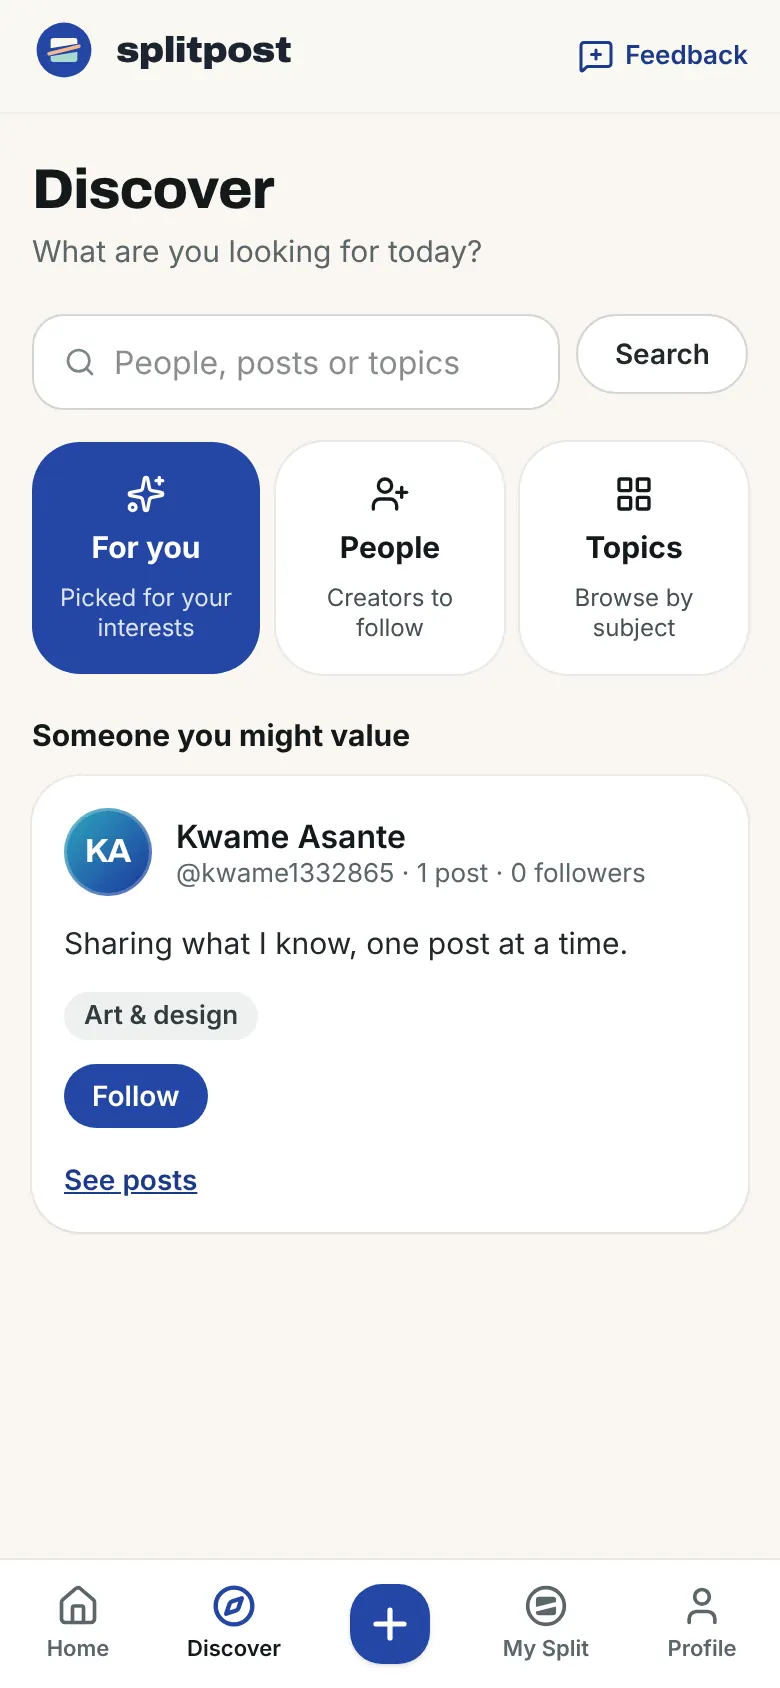
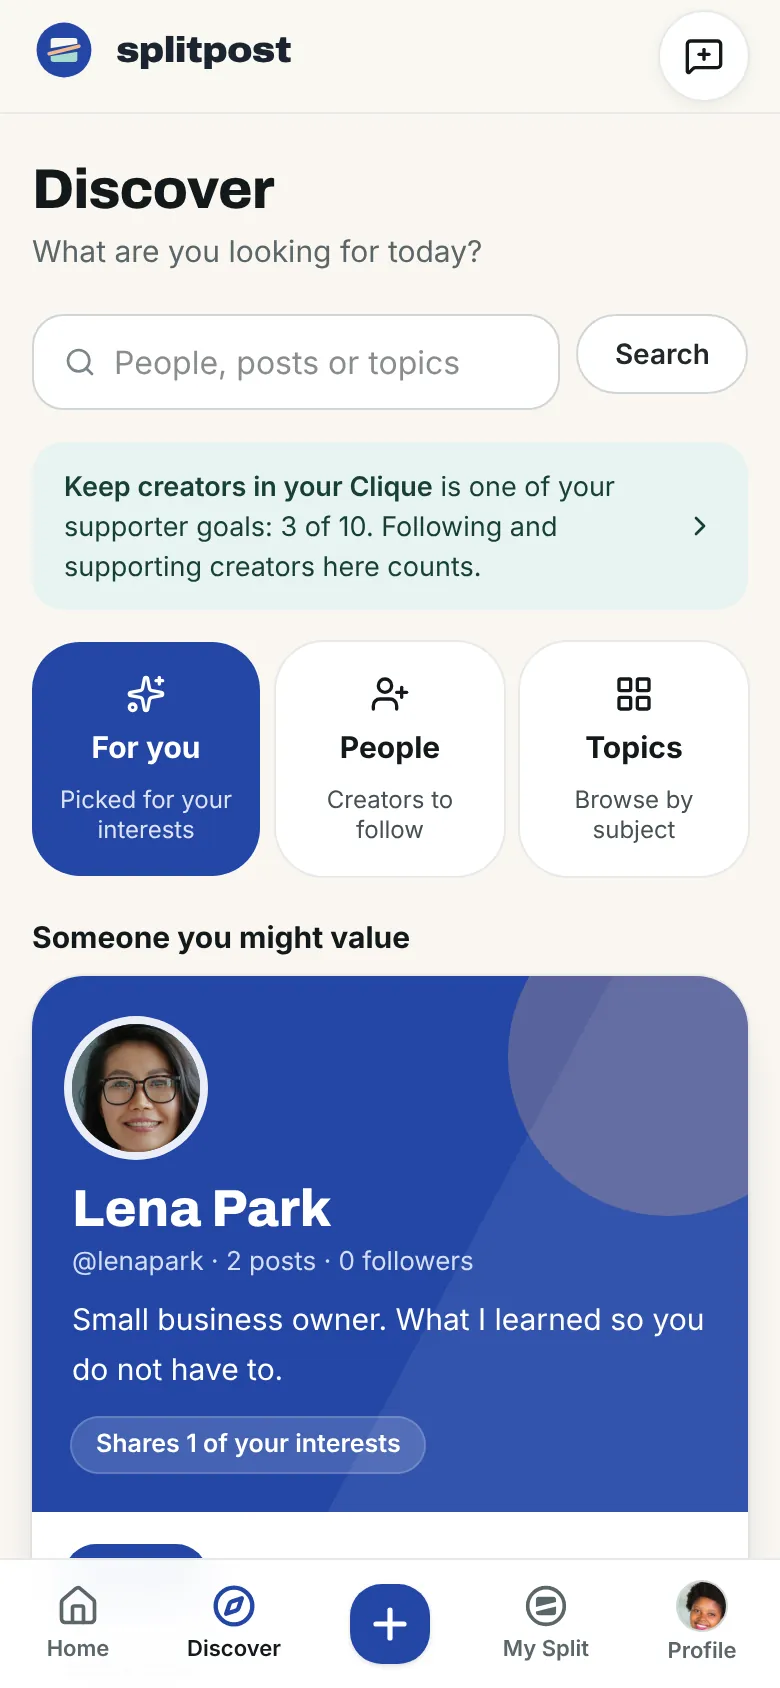
SP-BRAND-003: HOW screens from a curated demo community, asset register
The five HOW screens were captured through the actual app on a local,
isolated test database with a fictional demo community across faith,
personal development and business. Every profile picture and post photo in
them is a verified Unsplash photo, now listed in DEMO_SCREEN_PHOTOS. No pilot
data and no new product capabilities. Amounts remain labelled simulated.

Claude-Session: https://claude.ai/code/session_01CUaEFtsUmZarGV9ZXQ3NfH

diff --git a/src/public/landing/photos.ts b/src/public/landing/photos.ts
@@ -180,3 +180,28 @@ export const HERO_POST = {
 
 /** Every hero picture, for the register checks. */
 export const HERO_PICTURES = [HERO_POST.creator.avatar, HERO_POST.media, ...HERO_POST.community] as const
+
+/**
+ * Photos that appear inside the HOW screenshots (SP-BRAND-003). The screens
+ * were captured through the actual app on a local, isolated test database with
+ * a fictional demo community (never pilot data). Every profile picture and post
+ * photo in them is one of these verified Unsplash photos; the HERO_POST photos
+ * also appear (David Mitchell's post and picture). Names are fictional.
+ */
+export const DEMO_SCREEN_PHOTOS = [
+  ['Grace Adeyemi (profile)', 'https://unsplash.com/photos/a-smiling-woman-poses-in-front-of-a-wall-xSEFkIAopxA', 'Brooke Balentine'],
+  ['Samuel Okafor (profile)', 'https://unsplash.com/photos/man-in-maroon-suit-with-black-lapels-smiling-g9Et-rzQBkA', 'Jadon Johnson'],
+  ['Helen Brooks (profile)', 'https://unsplash.com/photos/woman-in-white-long-sleeve-shirt-smiling-RBtFAZXlJDA', 'Maria Lupan'],
+  ['Marcus Bell (profile)', 'https://unsplash.com/photos/a-man-wearing-a-blue-suit-and-white-shirt-xbB9xhLOc0I', 'Samson Balogun'],
+  ['Lena Park (profile)', 'https://unsplash.com/photos/a-woman-with-glasses-smiles-against-a-gray-background-s3aDHKxHZSc', 'Vitaly Gariev'],
+  ['Nina Patel (profile)', 'https://unsplash.com/photos/woman-in-gray-and-yellow-pussybow-top-_5_CBVCLBsY', 'Christina @ wocintechchat.com M'],
+  ['Jordan Lee (profile)', 'https://unsplash.com/photos/a-smiling-young-man-in-a-dark-blue-sweater-rifCUO-4X8k', 'Josias Garibay'],
+  ['Priya Shah (profile)', 'https://unsplash.com/photos/smiling-woman-in-white-and-black-checkered-dress-shirt-MQ2xYBHImKM', 'Compagnons'],
+  ['Tom Walker (profile)', 'https://unsplash.com/photos/man-wearing-white-v-neck-shirt-iFgRcqHznqg', 'Joseph Gonzalez'],
+  ['Ben Carter (profile)', 'https://unsplash.com/photos/man-wearing-grey-jacket-v7Jja2ChN6s', 'Ryan Hoffman'],
+  ['Grace: Bible and mug', 'https://unsplash.com/photos/green-ceramic-mug-beside-book-4eWwSxaDhe4', 'Aaron Burden'],
+  ['Samuel: candle and journal', 'https://unsplash.com/photos/white-candle-on-white-ruled-paper-beside-white-ceramic-mug-6Ahp8-YMoww', 'Sixteen Miles Out'],
+  ['Helen: open notebook', 'https://unsplash.com/photos/open-notebook-with-pen-and-pencils-on-desk-n9AaeihA9HI', 'Clay Banks'],
+  ['Marcus: laptop and notebook', 'https://unsplash.com/photos/laptop-phone-and-notebook-on-a-wooden-desk-Qw_WS6EFY00', 'Jakub Żerdzicki'],
+  ['Lena: shop stock check', 'https://unsplash.com/photos/woman-reviews-inventory-in-a-clothing-store-Pvaaeer8kws', 'Vitaly Gariev'],
+].map(([use, sourceUrl, photographer]) => ({ use, sourceUrl, photographer, verified: true, verification: UNSPLASH_CHECK_BRAND3, ...LICENCES.Unsplash }))
